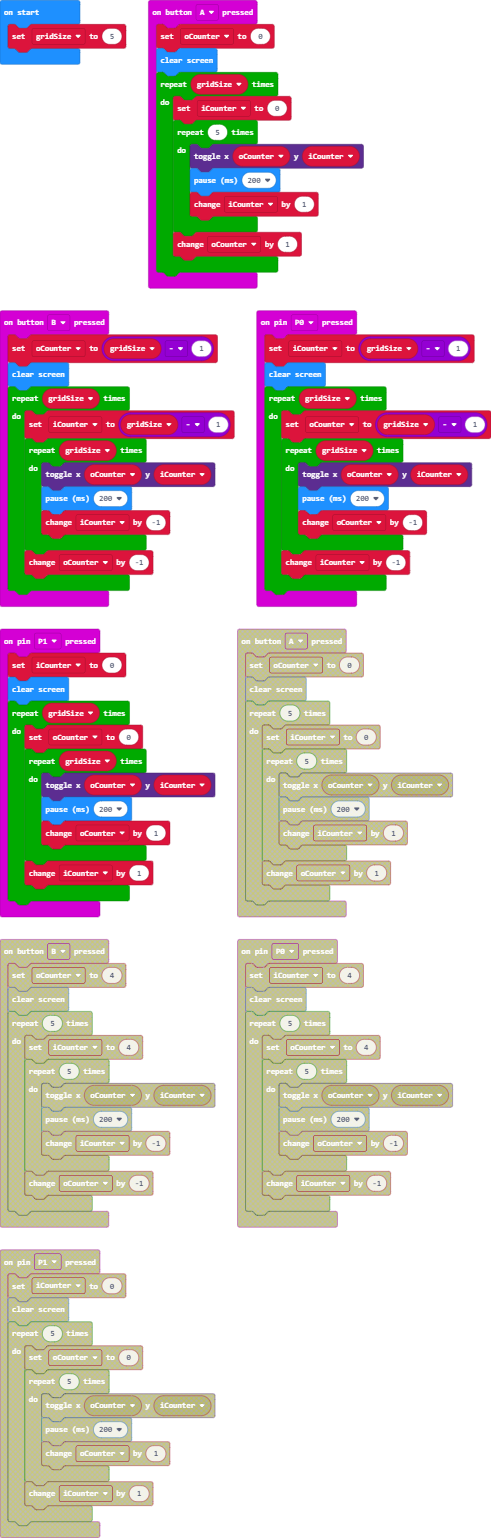
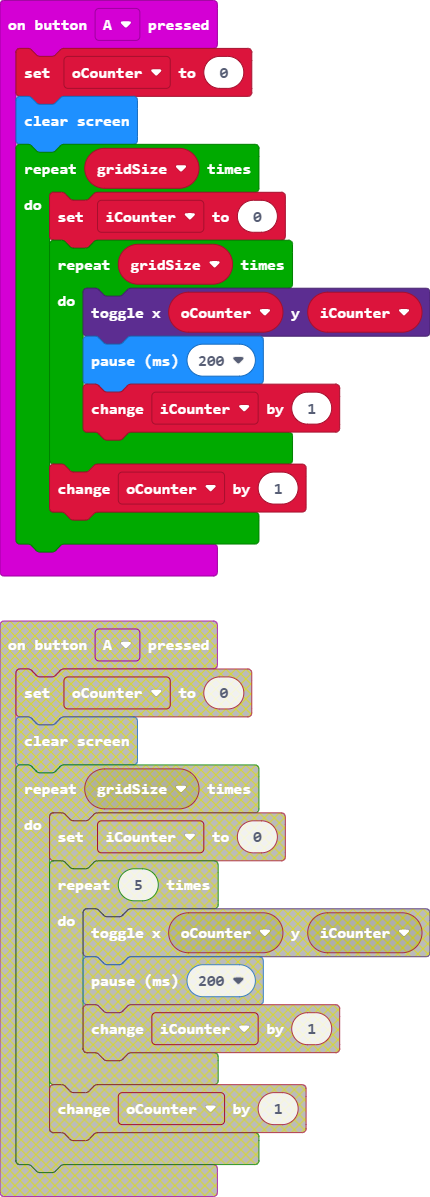
final with master grid size

diff --git a/main.ts b/main.ts
@@ -16,7 +16,7 @@ input.onButtonPressed(Button.A, function () {
     basic.clearScreen()
     for (let index = 0; index < gridSize; index++) {
         iCounter = 0
-        for (let index = 0; index < 5; index++) {
+        for (let index = 0; index < gridSize; index++) {
             led.toggle(oCounter, iCounter)
             basic.pause(200)
             iCounter += 1
@@ -54,4 +54,3 @@ let oCounter = 0
 let iCounter = 0
 let gridSize = 0
 gridSize = 5
-basic.clearScreen()
